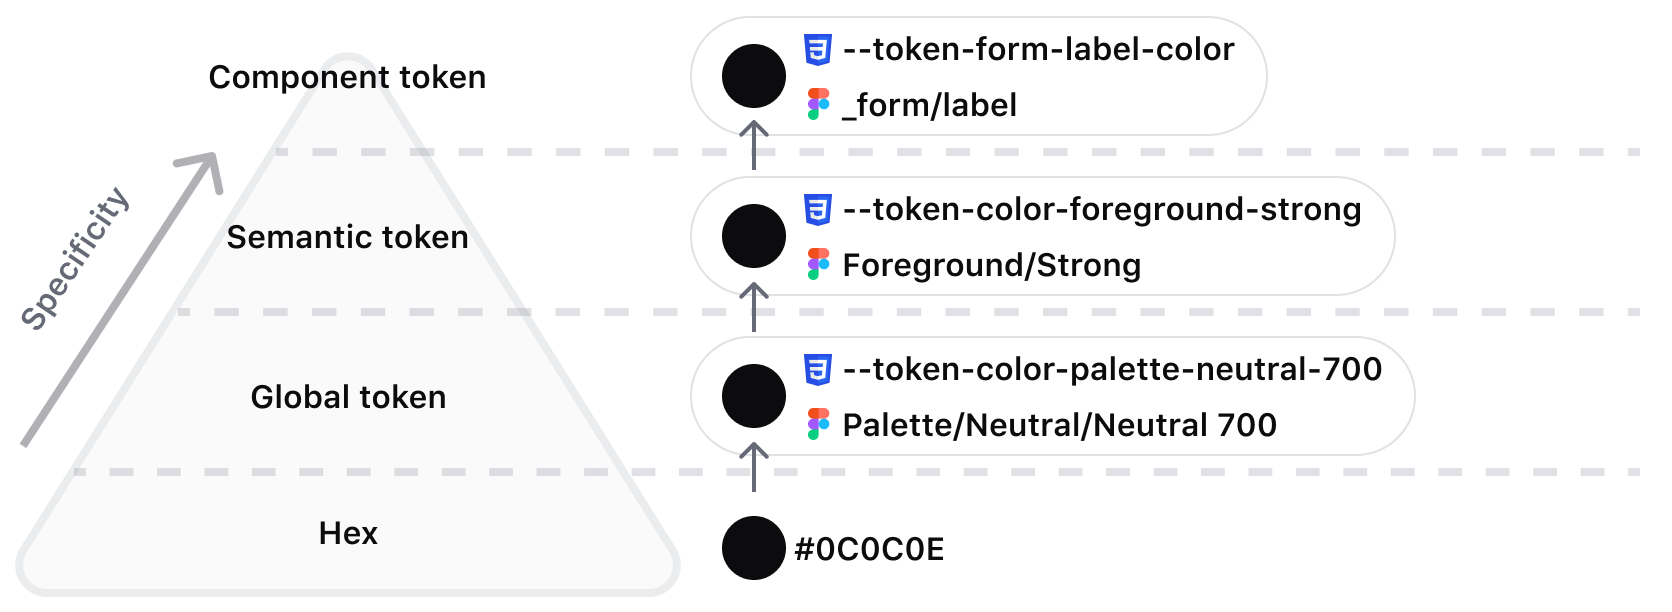
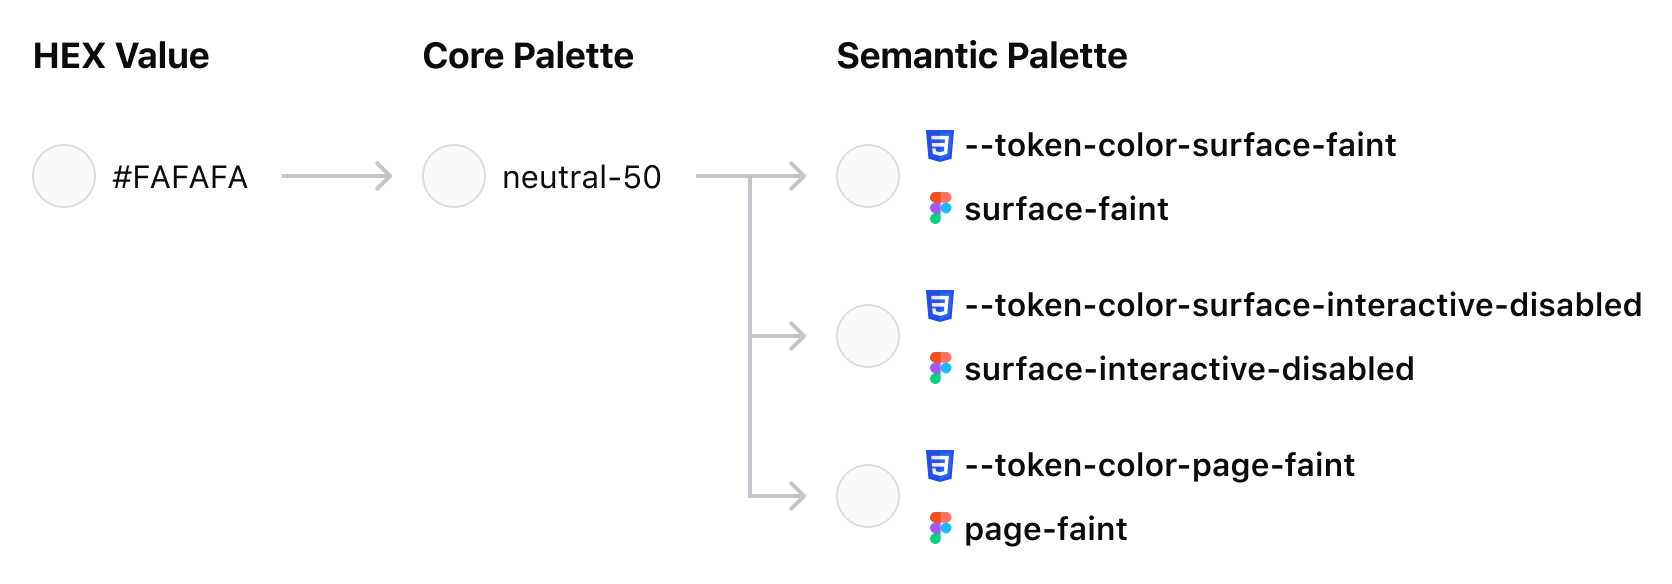
Update Color page on Helios website (Foundations section) (#2870)

diff --git a/website/docs/foundations/colors/partials/guidelines/guidelines.md b/website/docs/foundations/colors/partials/guidelines/guidelines.md
@@ -1,18 +1,20 @@
-## Color styles and tokens
+## Color tokens
 
-Color-naming syntax and usage can vary depending on context and tooling. This overview will clarify what naming conventions are typically used and how they align with the HDS standards implemented in our libraries.
+Color-naming syntax and usage can vary depending on context and tooling. Semantic naming conventions within our system allow us to implement consistent standards in our libraries.
 
-In Figma, reusable colors are referred to as “Styles.” They are categorized and stored in the right sidebar for fills, borders, and other properties that accept color values. Styles directly reference a HEX value but cannot reference each other (known as aliasing for Tokens). This means when we provide Figma Styles for semantic usage (like `Foreground/Primary`), the HEX value (`#3B3D45`) is directly referenced instead of the Core Palette color (`Palette/Neutral/Neutral 600`). 
+In Figma, we use Variables to define and organize color values. Variables allow us to create palettes that reference (or alias) each other. Our Core Palette is a collection of HEX values and their color ramps (`neutral-50`, `neutral-100`,...`neutral-700`). These values are then connected to Semantic Variables (`foreground-primary`, `surface-faint`, `border-critical`). This alias connection allows us to designate multiple token uses for individual HEX values that lead back to the same Core Palette token.
 
-In code, we refer to reusable colors as “Tokens.” They are generated from platform-agnostic files, in our case JSON, and create atomic colors regardless of what platform or framework is used. For example, Core Palette colors like `--token-color-palette-neutral-600` are directly referenced in `--token-color-foreground-primary`. 
+Tokens in code are generated from platform-agnostic files, in our case JSON, and create atomic colors regardless of what platform or framework is used. Core Palette values are directly referenced in Semantic Palette values in the same way that Figma variables alias one another. 
 
-![Pyramid diagram of token color inheritance with the levels (from bottom to top): hex code, global token, alias token, component token](/assets/foundations/color/colors-what-are-semantic-tokens.png)
+![Diagram of token color inheritance with the levels (from left to right): hex code, core palette token, semantic token](/assets/foundations/color/colors-what-are-semantic-tokens.png)
 
 ## What are semantic colors?
 
-The Semantic Palette helps ensure proper color usage across applications by embedding meaning directly into the name.
+The Semantic Palette embeds meaning into color names, making it easier to select correct consistent values across applications. These colors are designed to meet accessibility standards when used in combination with one another. 
+- Foreground colors are intended to be used with surface or page colors.
+- Status color values consist of "surface," "on-surface," and "high-contrast" options to meet accessibility standards when used together. 
 
-Semantic colors were designed to be used together, ensuring they meet accessibility standards and look visually pleasing. For example, foreground colors are intended to be used with surface or page colors. In many cases, it is important to use specific contextual naming conventions, such as status colors, together. Here are some examples of semantic color combinations with their respective contrast ratios:
+Some examples of semantic color combinations with their respective contrast ratios are:
 - `Foreground/Strong` on `Surface/Primary` nets a ratio of 19.54:1
 - `Foreground/Success-on Surface` on `Surface/Success` nets a ratio of 5.37:1
 - `Foreground/Primary` on `Surface/Primary` nets a ratio of 10.82:1
@@ -20,16 +22,20 @@ Semantic colors were designed to be used together, ensuring they meet accessibil
 
 ![A Card component with the color contrast ratios for each of the color combinations labelled](/assets/foundations/color/colors-semantic-tokens-accessibility-examples.png)
 
-The **element** and the **role** are referenced in the name to help make more informed color decisions.
+### How are semantic names created?
 
-HDS organizes semantic tokens into **element** categories:
+In semantic token naming, the **element** and the **role** are defined to make color decisions easier and more consistent. HDS organizes semantic tokens into **element** categories with **roles** appended.
 
-- **Foreground** - For elements such as text, links, statuses, and icons.
-- **Border** - For borders on components, containers, or dividers.
+![Columns showing how the token name is broken down into a prefix, element, and role](/assets/foundations/color/colors-semantic-token-naming.png)
+
+Examples of **element** naming include:
+
+- **Foreground** - For text, link, status, and icon elements
+- **Border** - For borders (or strokes) on components, containers, or dividers
 - **Surface** - For the background (or surface) of a component or container
 - **Page** - For page backgrounds
 
-Examples of **role** naming conventions include: 
+Examples of **role** in naming include: 
 
 - Strong
 - Primary
@@ -37,26 +43,30 @@ Examples of **role** naming conventions include:
 - Action (not to be used outside of context)
 - Disabled (not to be used outside of context)
 
-### Foreground colors
+### Foreground
 
-Foreground colors are used for elements such as text, links, and icons.
+Foreground colors are used for informational and decorative elements such as text, links, and icons.
 
 Some common examples of semantic foreground colors include:
 
 - `Foreground/Strong` for headings and secondary links
 - `Foreground/Primary` for body text 
-- `Foreground/Faint` for less prominent text and UI elements.
-- `Foreground/Action` for primary call to action such as links
+- `Foreground/Faint` for less prominent text and UI elements
+- `Foreground/Action` for primary calls to action such as links
 
 ![Samples of text with their color tokens labelled](/assets/foundations/color/colors-foreground-examples.png)
 
-Use status foreground colors to help contextualize responses from user actions or to indicate status within a UI. These colors should be used sparingly and within the context of specific components like [Alerts](/components/alert#color), [Toasts](/components/toast#color), or [Badges](/components/badge#color).
+Status foreground colors contextualize responses from user actions or indicate status within a UI. These colors should be used sparingly and within the context of specific components, for example:
+
+- [Alerts](/components/alert#color)
+- [Toasts](/components/toast#color)
+- [Badges](/components/badge#color)
 
 ![Sample positive, warning, and error status badges with their associated foreground color tokens labelled.](/assets/foundations/color/colors-status-examples.png)
 
-### Border colors
+### Border
 
-Some common examples of border colors include:
+Some examples of border colors include:
 
 - `Border/Strong` for secondary Button border
 - `Border/Primary` for Card border or divider
@@ -64,31 +74,33 @@ Some common examples of border colors include:
 
 ![Sample borders applied on a button, card, and alert with the border color tokens labelled](/assets/foundations/color/colors-border-examples.png)
 
-### Surface colors
+### Surface
 
-Use surface colors for the background (or surface) of a component or container. 
+Surface colors are intended to be used for the background (or surface) of a component or container. 
 
-Some common examples of surface colors include:
+Examples of surface colors include:
 
-- `Surface/Strong` for the neutral Badge.
-- `Surface/Primary` for component containers.
-- `Surface/Faint` for the secondary Button.
-- `Surface/{Status color}` for Alert background.
+- `Surface/Strong` for the neutral Badge
+- `Surface/Primary` for component containers
+- `Surface/Faint` for the secondary Button
+- `Surface/{Status color}` for Alert backgrounds
 
 ![Sample surface colors being applied to a badge, card, button, and alert with the surface color token labelled.](/assets/foundations/color/colors-surface-examples.png)
 
-### Page colors
+### Page
 
-Page colors are used for page backgrounds. HDS components do not use these tokens; however, we recommend `Page/Primary` as the primary background color and `Page/Faint` as a means to create a secondary level on the page for highlighting information, if necessary.
+Page colors are used for page backgrounds. HDS components do not use these tokens; however, we recommend `Page/Primary` for all standard page backgrounds and `Page/Faint` as a means to create a secondary level on a page if necessary.
 
 ## Accessible color combinations
 
-We intend to be conformant with WCAG 2.2 Level AA requirements. In terms of color contrast, this means a luminosity ratio of 4.5:1 for normal sized text, and 3:1 for large text (commonly 22px). Further details are outlined on [WCAG’s understanding of Contrast (Minimum)](https://www.w3.org/WAI/WCAG22/Understanding/contrast-minimum.html). By default, semantic color tokens provide accessible color combinations out of the box with their associated naming conventions, while using palette colors requires manual validation, especially if you plan to mix and match. As an example, if a color has a semantic status name in it, then other associated status colors will be accessible. 
+We are conformant with WCAG 2.2 Level AA requirements. For color contrast, this means a luminosity ratio of 4.5:1 for normal sized text, and 3:1 for large text (commonly 22px). Further details are outlined on [WCAG’s understanding of Contrast (Minimum)](https://www.w3.org/WAI/WCAG22/Understanding/contrast-minimum.html). 
+
+HDS semantic color tokens provide accessible color combinations out of the box when used according to their naming conventions (`Surface/{Status color}`is compliant in combination with `Foreground/{Status color on surface}`). Using other color token combinations requires manual validation.
 
 It is important to note that we [do not recommend the usage of disabled elements](/patterns/disabled-patterns), especially isolating disabled colors out of context, as they are not accessible.
 
 ### Using palette colors
 
-The Core Palette is available if semantic colors do not meet your needs. These styles are usage-agnostic, which can introduce challenges in consistently scaling designs but also allow more freedom and flexibility in color pairing. 
+If Semantic tokens do not meet your needs, the Core Palette is published for general use. These values are usage-agnostic, which can introduce challenges in consistently scaling designs but also allow more freedom and flexibility in color pairing. 
 
-When pairing colors from the Core Palette, ensure adjacent colors meet accessible contrast ratios. To validate your color combinations, use free tools like the [WebAIM contrast checker](https://webaim.org/resources/contrastchecker/) or [Stark’s Figma plugin](https://www.figma.com/community/plugin/732603254453395948/stark-contrast-accessibility-checker).
+When pairing colors from the Core Palette, check that adjacent colors meet accessible contrast ratios. To validate your color combinations, use free tools like the [WebAIM contrast checker](https://webaim.org/resources/contrastchecker/) or [Stark’s Figma plugin](https://www.figma.com/community/plugin/732603254453395948/stark-contrast-accessibility-checker).

diff --git a/website/docs/foundations/colors/partials/guidelines/overview.md b/website/docs/foundations/colors/partials/guidelines/overview.md
@@ -1,1 +1,1 @@
-When choosing what colors to use, we recommend starting with semantic colors as their usage is clearly defined and common color pairings are accessible out of the box.
+When choosing color values in design, we recommend starting with semantic color tokens — values with clearly defined intent — and relying on color pairings in Helios that are accessible out of the box.
